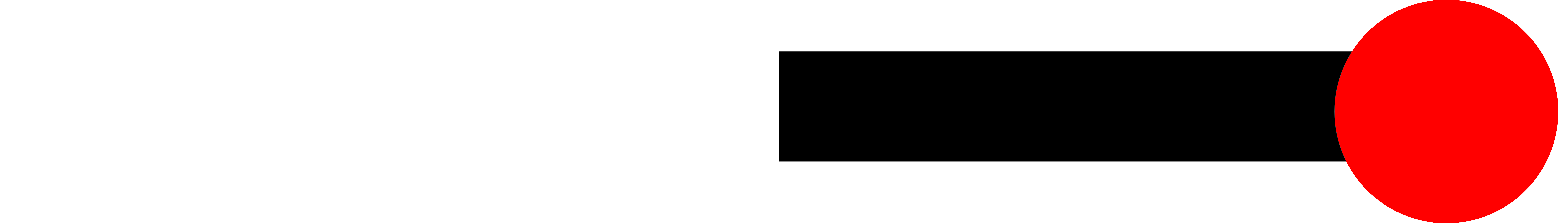
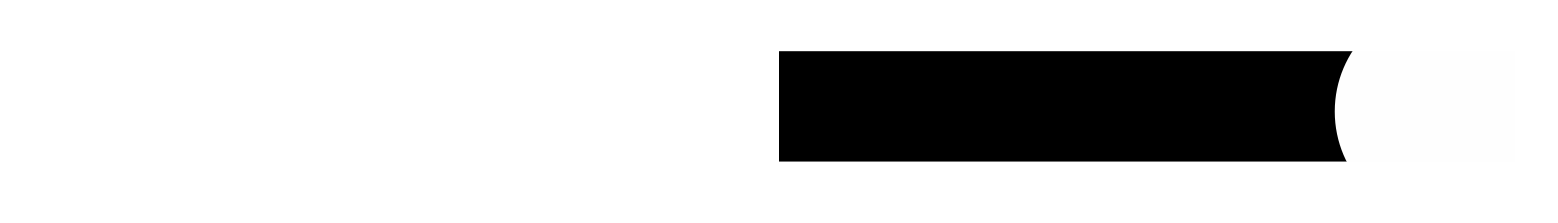
added to ls2 proto

Changed region(s): [[0.4929, 0.0, 1.0, 1.0]]

diff --git a/LeverSim2/Game/LeverSim2.js b/LeverSim2/Game/LeverSim2.js
@@ -18,24 +18,23 @@ function loadBackground(){
 oldvalue = " 2"
 function changeBackground(newValue, color){
     id2 = setInterval(BackgroundFrame, 25, 100, newValue, color)
-    console.log(id2)
-    time = 0
+    console.log("running")
+    backgroundTime = 0
     function BackgroundFrame(length, newValue, color){
-        if(time == length){
+        if(backgroundTime == length){
             oldvalue = " " + num
             Pulling = false
-            console.log(id2)
+            console.log(Pulling)
             clearInterval(id2)
-            console.log(id2)
             return
         }
-        time++
+        backgroundTime++
         let string = ""
         for (let i = 0; i<50; i++){
             for(let j=0; j<60; j++){
-                if(j == (time - i)){
+                if(j == (backgroundTime - i)){
                     string += "<span style = 'font-weight: bolder; color: " + color + "'>" + newValue + "</span>"
-                }else if(j <= (time - i)){
+                }else if(j <= (backgroundTime - i)){
                     string += newValue
                 }else{
                     string += oldvalue
@@ -52,13 +51,12 @@ function changeBackground(newValue, color){
 const Lever = document.getElementById("Lever")
 const LeverText = document.getElementById("LeverText")
 const accent = document.querySelector(':root');
-
+const TitleNum = document.getElementById("TitleNum")
 
 
 Pulling = false
 stopped = false
 function CrankLever(profesional){
-
     // console.log(oldvalue)
     if (Pulling || stopped){
         return
@@ -71,28 +69,6 @@ function CrankLever(profesional){
     function Frame(){
         if(time == 320){
             // prob = Math.random()
-            changeBackground(" 3", "yellow")
-            if(prob == 1){
-                Lever.style.filter = "hue-rotate(240deg)"
-                accent.style.setProperty('--accent', 'blue');
-                changeBackground(" 1", "blue")
-                num = 1;
-            }else if (prob == 2){
-                Lever.style.filter = "hue-rotate(120deg)"
-                accent.style.setProperty('--accent', 'green');
-                changeBackground(" 2", "green")
-                num = 2
-            }else if (prob == 3){
-                Lever.style.filter = "hue-rotate(60deg)"
-                accent.style.setProperty('--accent', 'yellow');
-                changeBackground(" 3", "yellow")
-                num = 3
-            }else if (prob == 4){
-                Lever.style.filter = "hue-rotate(0deg)"
-                accent.style.setProperty('--accent', 'red');
-                changeBackground(" 4", "red")
-                num = 4
-            }
             LeverText.innerHTML = "<center>" + num + "</center>"
             clearInterval(id)
             return
@@ -105,27 +81,60 @@ function CrankLever(profesional){
                 Lever.style.transform = "rotate(" + (time-45) + "deg)"
                 break
             case 3:
+                if (time == (stageLength * 3 ) + 1){
+                    console.log("testing")
+                    if(prob == 1){
+                        Lever.style.filter = "hue-rotate(240deg)"
+                        accent.style.setProperty('--accent', 'blue');
+                        changeBackground(" 1", "blue")
+                        num = 1;
+                        TitleNum.style.color = "blue"
+                    }else if (prob == 2){
+                        Lever.style.filter = "hue-rotate(120deg)"
+                        accent.style.setProperty('--accent', '#00FF00');
+                        changeBackground(" 2", "#00FF00")
+                        TitleNum.style.color = "#00FF00"
+                        num = 2
+                    }else if (prob == 3){
+                        Lever.style.filter = "hue-rotate(60deg)"
+                        accent.style.setProperty('--accent', 'yellow');
+                        changeBackground(" 3", "yellow")
+                        TitleNum.style.color = "yellow"
+                        num = 3
+                    }else if (prob == 4){
+                        Lever.style.filter = "hue-rotate(0deg)"
+                        accent.style.setProperty('--accent', 'red');
+                        changeBackground(" 4", "red")
+                        TitleNum.style.color = "red"
+                        num = 4
+                    }
+                }
                 let rot = time - 3 * stageLength
                 Lever.style.transform = "rotate(" + ((80-rot)-45) + "deg)"
                 break
             default:
                 if (time % 15 == 0){
-                    prob = Math.ceil(Math.random() * 3)
+                    prob = Math.ceil(Math.random() * 4)
+                    console.log(prob)
                     if(prob == 1){
                         Lever.style.filter = "hue-rotate(240deg)"
                         accent.style.setProperty('--accent', 'blue');
+                        TitleNum.style.color = "blue"
                         num = 1;
                     }else if (prob == 2){
                         Lever.style.filter = "hue-rotate(120deg)"
-                        accent.style.setProperty('--accent', 'green');
+                        accent.style.setProperty('--accent', '#00FF00');
+                        TitleNum.style.color = "#00FF00"
                         num = 2
                     }else if (prob == 3){
                         Lever.style.filter = "hue-rotate(60deg)"
                         accent.style.setProperty('--accent', 'yellow');
+                        TitleNum.style.color = "yellow"
                         num = 3
                     }else if (prob == 4){
                         Lever.style.filter = "hue-rotate(0deg)"
                         accent.style.setProperty('--accent', 'red');
+                        TitleNum.style.color = "red"
                         num = 4
                     }
                     LeverText.innerHTML = "<center>" + num + "</center>"

diff --git a/LeverSim2/Game/index.html b/LeverSim2/Game/index.html
@@ -14,7 +14,7 @@
         <pre id="numbers">
         </pre>
     </div>
-    <h1 id="MainTitle">LEVER SIMULATOR <span style="color: red">2</span></h1>
+    <h1 id="MainTitle">LEVER SIMULATOR <span id="TitleNum" style="color: red">2</span></h1>
     <div class="content" id="Rules">
         <p>pull the lever, it will produce a number 1, 2, or 3</p>
         <h4>RULES:</h4>
@@ -27,12 +27,9 @@
             <h1 id="LeverText">
                 <center>X</center>
             </h1>
-        </div>
-            <!-- <image src ="Images/LeverBase.png" width="50px" id="LeverBase" onclick=""></image> -->
-            <!-- <button id = "LeverButton"> -->
+        </div id="LeverContainer">
             <img src="Images/Lever.png" height="50px" id="Lever" onclick="CrankLever(0)">
-            <!-- </button> -->
-    </div>
+        </div>
     <script src="LeverSim2.js"></script>
 </body>
 </html>

diff --git a/LeverSim2/Game/styles.css b/LeverSim2/Game/styles.css
@@ -78,6 +78,7 @@ body{
 }
 
 #Lever{
+    /* background-color: red; */
     cursor: pointer;
     margin-top: auto;
     margin-bottom: auto;
@@ -86,6 +87,10 @@ body{
     margin-left: -190px;
     transform: rotate(-45deg);
     z-index: 1;
+}
+
+#LeverContainer{
+    background-color: red;
 }
 #LeverText{
     font-size: 400px;
